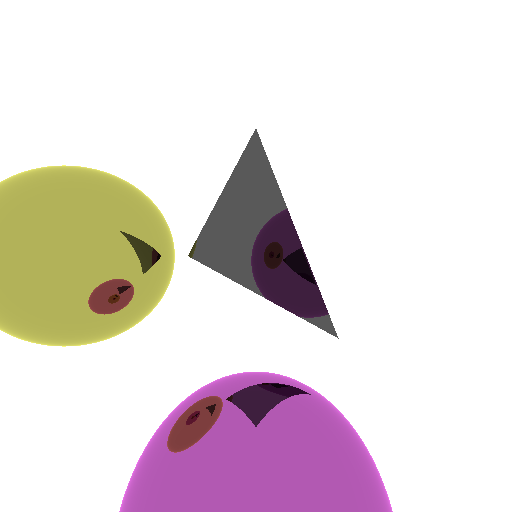
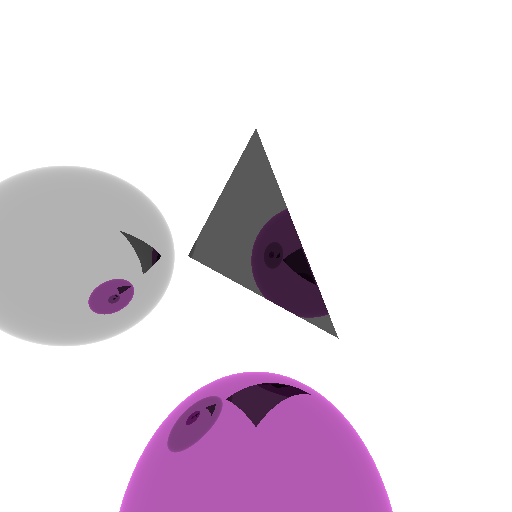
better intersection logic (maybe)

Changed region(s): [[0.0, 0.3125, 0.3438, 0.6875], [0.3125, 0.75, 0.4375, 0.9062], [0.375, 0.4688, 0.4062, 0.5]]

diff --git a/src/renderer.rs b/src/renderer.rs
@@ -2,7 +2,7 @@ use std::path::PathBuf;
 
 use crate::scene::{Geometry, Object, Scene};
 
-use nalgebra::{Vector3, Point3};
+use nalgebra::{Point3, Vector3};
 
 pub struct Renderer {
     pub output_file: PathBuf,
@@ -130,34 +130,22 @@ fn get_closest_intersection<'a>(
 fn get_intersection_dist(obj: &Object, ray: &Ray) -> Option<f64> {
     match obj.geometry {
         Geometry::Sphere { center, radius } => {
-            let a = ray.direction.norm_squared();
-            let b = 2.0
-                * ray
-                    .direction
-                    .component_mul(&(ray.origin - center))
-                    .dot(&Vector3::new(1.0, 1.0, 1.0));
+            let b = ray.direction.dot(&(ray.origin - center));
             let c = (ray.origin - center).norm_squared() - radius * radius;
-
-            let discr = b * b - 4.0 * a * c;
+            let discr = b * b - c;
 
             if discr > 0.0 {
-                let t1 = (-b + discr.sqrt()) / (2.0 * a);
-                let t2 = (-b - discr.sqrt()) / (2.0 * a);
+                let t1 = -b + discr.sqrt();
+                let t2 = -b - discr.sqrt();
 
-                if t1 < 0.0 && t2 < 0.0 {
-                    None
-                } else if t1 > 0.0 && t2 > 0.0 {
-                    Some(t1.min(t2))
-                } else {
-                    None
-                    //panic!("camera inside sphere!");
+                if t1 > 0.0 && t2 > 0.0 {
+                    return Some(t1.min(t2));
                 }
-            } else {
-                None
             }
+            None
         }
         Geometry::Triangle { p1, p2, p3 } => {
-            let normal = get_intersection_normal(obj, Point3::origin());
+            /*let normal = get_intersection_normal(obj, Point3::origin());
             let dist = (normal.dot(&(p1 - ray.origin))) / normal.dot(&ray.direction);
             let s = ray.origin + dist * ray.direction - p1;
             let d1 = p2 - p1;
@@ -166,7 +154,25 @@ fn get_intersection_dist(obj: &Object, ray: &Ray) -> Option<f64> {
             let a = (s[0] * d1[1] - s[1] * d1[0]) / (d1[1] * d2[0] - d1[0] * d2[1]);
             let b = (s[0] * d2[1] - s[1] * d2[0]) / (d1[0] * d2[1] - d1[1] * d2[0]);
 
-            if normal.dot(&ray.direction) < 0.0 && 0.0 <= a && 0.0 <= b && a+b <= 1.0 {
+            if normal.dot(&ray.direction) < 0.0 && 0.0 <= a && 0.0 <= b && a + b <= 1.0 {
+                Some(dist)
+            } else {
+                None
+            }*/
+
+            let normal = get_intersection_normal(obj, Point3::origin());
+            let dist = (normal.dot(&(p1 - ray.origin))) / normal.dot(&ray.direction);
+            let r = ray.origin + dist * ray.direction;
+
+            let c1 = (p1 - p2).cross(&normal);
+            let c2 = (p2 - p3).cross(&normal);
+            let c3 = (p3 - p1).cross(&normal);
+
+            if normal.dot(&ray.direction) < 0.0
+                && (r - p1).dot(&c1) >= 0.0
+                && (r - p2).dot(&c2) >= 0.0
+                && (r - p3).dot(&c3) >= 0.0
+            {
                 Some(dist)
             } else {
                 None

diff --git a/src/main.rs b/src/main.rs
@@ -49,7 +49,7 @@ fn main() {
                 radius: 1.0,
             },
             material: Material {
-                color: [1.0, 1.0, 0.5],
+                color: [1.0, 1.0, 1.0],
             },
         },
     );

diff --git a/src/scene.rs b/src/scene.rs
@@ -1,6 +1,6 @@
 use std::collections::HashMap;
 
-use nalgebra::{Vector3, Point3};
+use nalgebra::{Point3, Vector3};
 
 pub struct Scene {
     pub objects: HashMap<u64, Object>,
